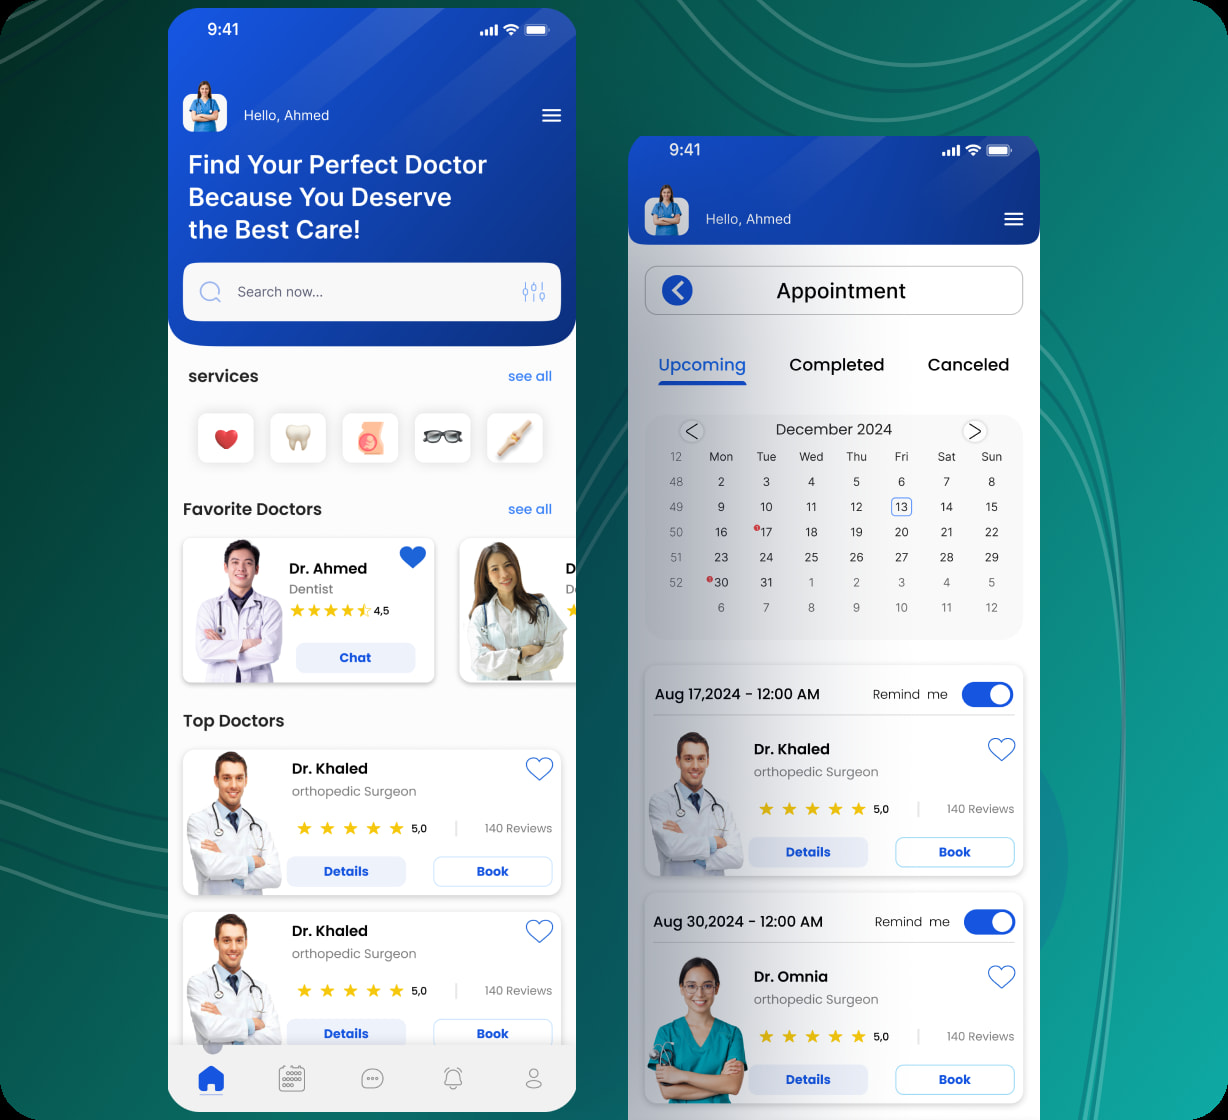
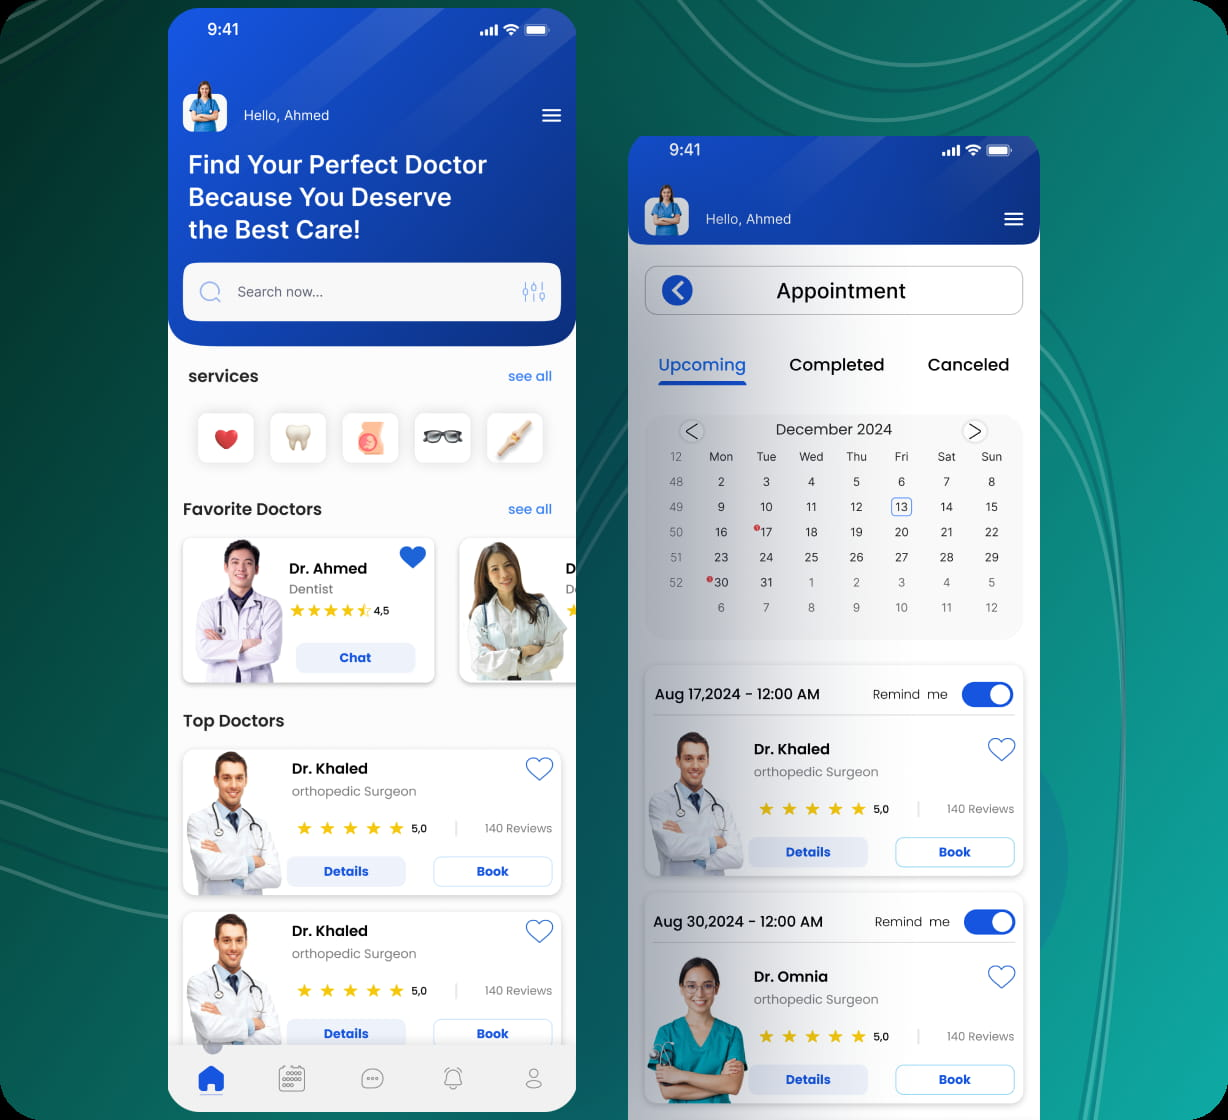
some edite3

diff --git a/src/Components/HomeSec4/HomeSec4.jsx b/src/Components/HomeSec4/HomeSec4.jsx
@@ -17,11 +17,17 @@ import portfolio17 from "../../assets/Images/col23.png";
 import portfolio18 from "../../assets/Images/elitecotton6.jpg";
 import portfolio19 from "../../assets/Images/splash.jpg";
 import portfolio20 from "../../assets/Images/col27.png";
-import web1 from "../../assets/Images/web1.png";
-import web2 from "../../assets/Images/web2.png";
-import web3 from "../../assets/Images/web3.png";
+import web1 from "../../assets/Images/web1.jpg";
+import web2 from "../../assets/Images/web2.jpg";
+import web3 from "../../assets/Images/web3.jpg";
 import web4 from "../../assets/Images/web4.jpg";
-import web5 from "../../assets/Images/web5.png";
+import web5 from "../../assets/Images/web5.jpg";
+import ads1 from "../../assets/Images/ads1.jpg";
+import ads2 from "../../assets/Images/ads2.jpg";
+import ads3 from "../../assets/Images/ads3.jpg";
+import ads4 from "../../assets/Images/ads4.jpg";
+import ads5 from "../../assets/Images/ads5.jpg";
+import ads6 from "../../assets/Images/ads6.jpg";
 
 const projects = [
   { id: 1, title: "LIQUID SPLASH", pragraph: "TTL Design", category: "TTL", img: portfolio1 },
@@ -40,12 +46,18 @@ const projects = [
   { id: 14, title: "Rozetta", pragraph: "TTL Design", category: "TTL", img: portfolio6 },
   { id: 15, title: "Splash", pragraph: "TTL Design", category: "TTL", img: portfolio5 },
   { id: 16, title: "Web Elite", pragraph: "Web Design", category: "TTL", img: portfolio15 },
-  { id: 17, title: "Burgu", pragraph: "Web Design", category: "Web", img: web1 },
-  { id: 18, title: "Web Clinic", pragraph: "Web Design", category: "Web", img: web2 },
-  { id: 19, title: "Web Clinic", pragraph: "Web Design", category: "Web", img: web3 },
-  { id: 20, title: "Web Clinic", pragraph: "Web Design", category: "Web", img: web4 },
-  { id: 21, title: "Web Clinic", pragraph: "Web Design", category: "Web", img: web5 },
-  { id: 22, title: "TTL Monkey", pragraph: "TTL Design", category: "TTL", img: portfolio10 },
+  { id: 17, title: "King Resturant ", pragraph: "App Design", category: "Web", img: web1 },
+  { id: 18, title: "Traffic Studio", pragraph: "Web Design", category: "Web", img: web2 },
+  { id: 19, title: "Al Jocker", pragraph: "Web Design", category: "Web", img: web3 },
+  { id: 20, title: "رحلة السلام", pragraph: "App Design", category: "Web", img: web4 },
+  { id: 21, title: "داركـ", pragraph: "App Design", category: "Web", img: web5 },
+  { id: 22, title: "Ads ", pragraph: "Ads", category: "Ads", img: ads1 },
+  { id: 23, title: "Ads ", pragraph: "Ads", category: "Ads", img: ads2 },
+  { id: 24, title: "Ads ", pragraph: "Ads", category: "Ads", img: ads2 },
+  { id: 25, title: "Ads ", pragraph: "Ads", category: "Ads", img: ads3 },
+  { id: 26, title: "Ads ", pragraph: "Ads", category: "Ads", img: ads4 },
+  { id: 27, title: "Ads ", pragraph: "Ads", category: "Ads", img: ads5 },
+  { id: 28, title: "Ads ", pragraph: "Ads", category: "Ads", img: ads6 },
 ];
 
 export default function HomeSec4() {
@@ -127,7 +139,7 @@ export default function HomeSec4() {
           </button>
            <button
             className={`cursor-pointer text-[16px] md:text-[20px] transition ${
-              selectedCategory === "TTL" ? "text-cyan-400 font-semibold" : "hover:text-cyan-400"
+              selectedCategory === "Ads" ? "text-cyan-400 font-semibold" : "hover:text-cyan-400"
             }`}
             onClick={() => handleFilterChange("Ads")}
           >

diff --git a/index.html b/index.html
@@ -2,7 +2,7 @@
 <html lang="en">
   <head>
     <meta charset="UTF-8" />
-    <link rel="icon" type="image/svg+xml" href="/logo.png" />
+    <link rel="icon" type="image/svg+xml" href="/logo.webp" />
     <meta name="viewport" content="width=device-width, initial-scale=1.0" />
     <title>Traffic Digital 360  </title>
   </head>
